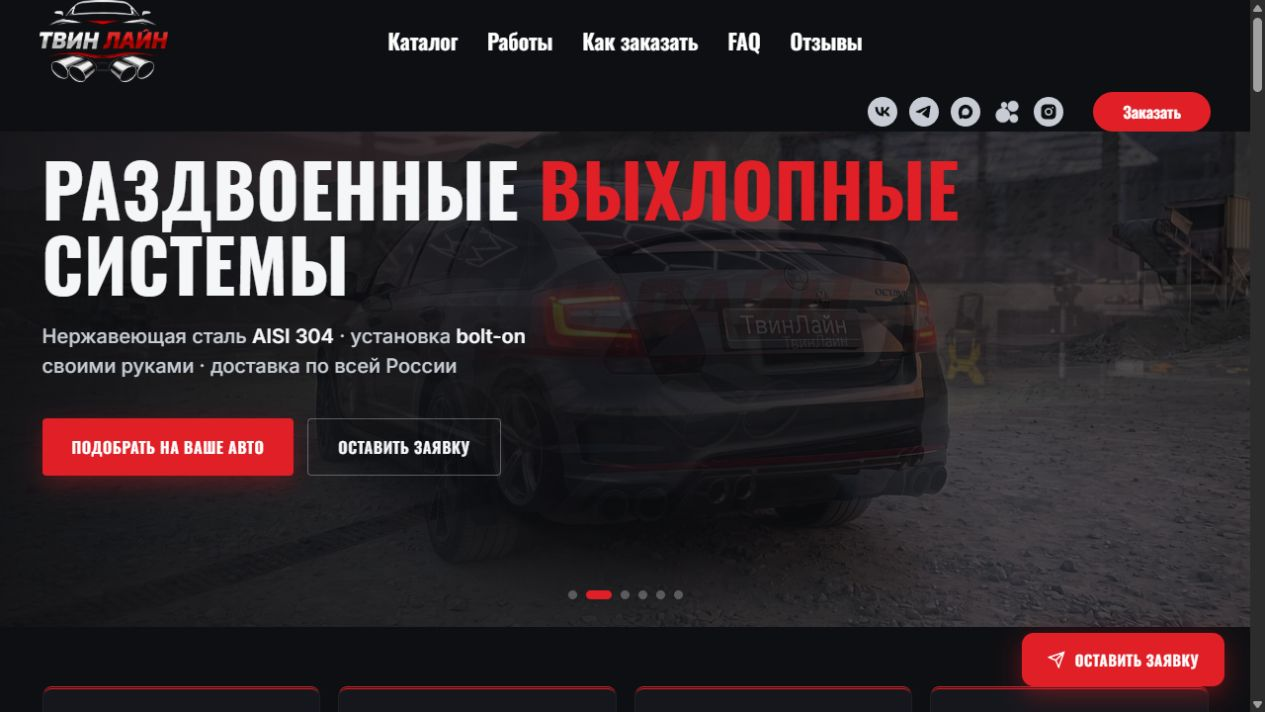
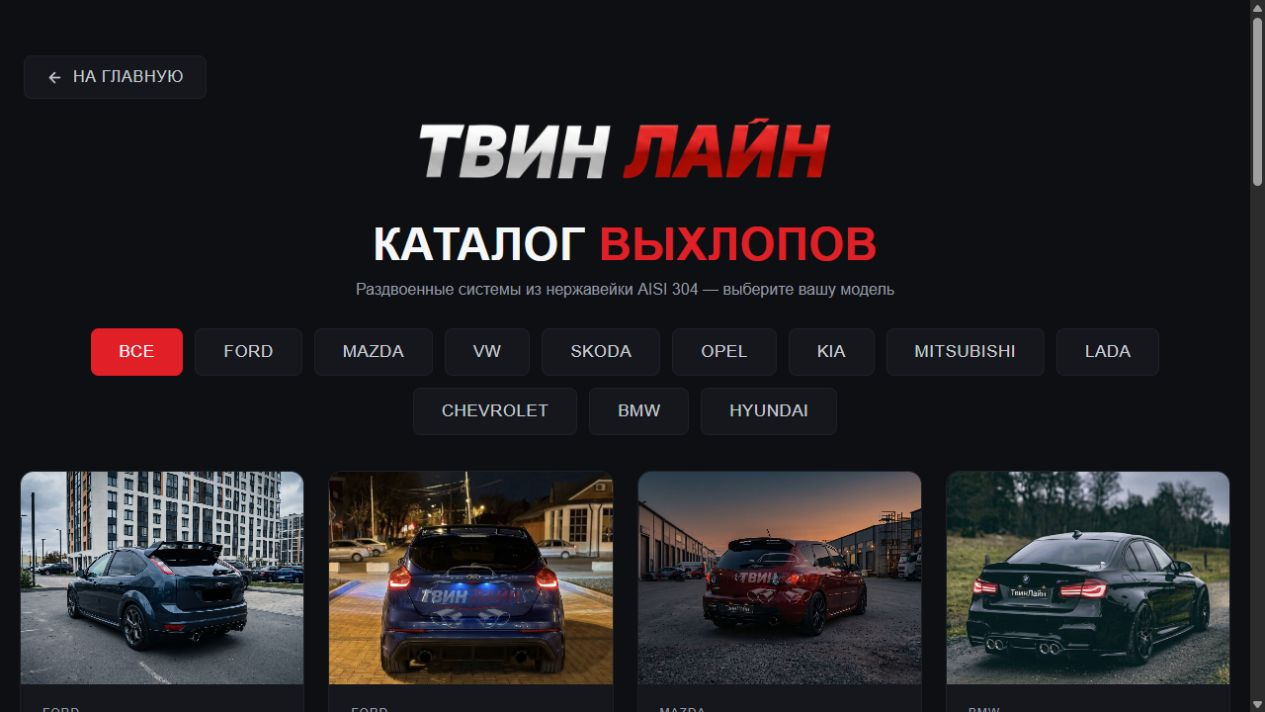
Animate signal portfolio and refresh Twin Line cover

diff --git a/src/App.jsx b/src/App.jsx
@@ -1,6 +1,6 @@
 'use client'
 
-import { useState } from 'react'
+import { useEffect, useState } from 'react'
 import { cases } from './data/cases.js'
 import { TELEGRAM_URL } from './config.js'
 
@@ -98,6 +98,28 @@ function CaseGallery({ item }) {
 }
 
 function App() {
+  useEffect(() => {
+    const reduceMotion = window.matchMedia('(prefers-reduced-motion: reduce)').matches
+    if (reduceMotion) return undefined
+
+    document.documentElement.classList.add('motion-ready')
+    const targets = document.querySelectorAll('[data-reveal]')
+    const observer = new IntersectionObserver((entries) => {
+      entries.forEach((entry) => {
+        if (entry.isIntersecting) {
+          entry.target.classList.add('is-visible')
+          observer.unobserve(entry.target)
+        }
+      })
+    }, { threshold: 0.14 })
+
+    targets.forEach((target) => observer.observe(target))
+    return () => {
+      observer.disconnect()
+      document.documentElement.classList.remove('motion-ready')
+    }
+  }, [])
+
   return (
     <div className="site-shell">
       <a className="skip-link" href="#main">К содержанию</a>
@@ -119,11 +141,11 @@ function App() {
       <main id="main">
         <section className="hero" id="top">
           <div className="hero-index" aria-hidden="true">01 / Портфолио · 2026</div>
-          <div className="hero-copy">
+          <div className="hero-copy" data-reveal>
             <p className="eyebrow"><i aria-hidden="true" />Ведущий маркетолог · сайты · запуск</p>
             <h1>Сайты, которые <em>работают.</em></h1>
           </div>
-          <div className="hero-aside">
+          <div className="hero-aside" data-reveal>
             <figure className="hero-portrait">
               <img src="/valeriy-parshin.jpg" alt="Валерий Паршин" />
               <figcaption>
@@ -134,21 +156,24 @@ function App() {
             <p>Я Валерий. Беру проект целиком: от понимания аудитории и оффера до сайта, аналитики и запуска.</p>
             <a className="text-link" href="#cases">Смотреть работы <ArrowIcon /></a>
           </div>
-          <div className="hero-signal" aria-label="6 лет в маркетинге">
+          <div className="hero-signal" aria-label="6 лет в маркетинге" data-reveal>
             <strong>6</strong>
             <span>лет<br />в маркетинге</span>
           </div>
-          <div className="hero-note">
+          <div className="hero-note" data-reveal>
             <span>От маркетинговой стратегии до запуска:</span>
             <strong>не просто экран, а сайт, встроенный в продажи.</strong>
           </div>
         </section>
 
         <div className="signal-strip" aria-hidden="true">
-          <span>Стратегия</span><i>✦</i><span>Оффер</span><i>✦</i><span>Сайт</span><i>✦</i><span>Запуск</span><i>✦</i><span>Заявки</span>
+          <div className="signal-track">
+            <span>Стратегия</span><i>✦</i><span>Оффер</span><i>✦</i><span>Сайт</span><i>✦</i><span>Запуск</span><i>✦</i><span>Заявки</span>
+            <span>Стратегия</span><i>✦</i><span>Оффер</span><i>✦</i><span>Сайт</span><i>✦</i><span>Запуск</span><i>✦</i><span>Заявки</span>
+          </div>
         </div>
 
-        <section className="positioning section" id="approach" aria-labelledby="approach-title">
+        <section className="positioning section" id="approach" aria-labelledby="approach-title" data-reveal>
           <div className="positioning-copy">
             <p className="eyebrow">Моя сильная сторона</p>
             <h2 id="approach-title">Смотрю на сайт как на часть маркетинга, а не как на отдельную картинку.</h2>
@@ -170,7 +195,7 @@ function App() {
           </dl>
         </section>
 
-        <section className="cases section" id="cases" aria-labelledby="cases-title">
+        <section className="cases section" id="cases" aria-labelledby="cases-title" data-reveal>
           <div className="section-heading">
             <p className="eyebrow">Выбранные работы</p>
             <h2 id="cases-title">Живые сайты, которые можно открыть</h2>
@@ -179,7 +204,7 @@ function App() {
 
           <div className="case-list">
             {cases.map((item) => (
-              <article className="case" key={item.id}>
+              <article className="case" key={item.id} data-reveal>
                 <CaseGallery item={item} />
                 <div className="case-copy">
                   <div className="case-meta">
@@ -209,7 +234,7 @@ function App() {
           </div>
         </section>
 
-        <section className="services section" id="services" aria-labelledby="services-title">
+        <section className="services section" id="services" aria-labelledby="services-title" data-reveal>
           <div className="section-heading compact">
             <p className="eyebrow">Чем могу помочь</p>
             <h2 id="services-title">Соединить маркетинг, сайт и запуск в одном проекте</h2>
@@ -225,7 +250,7 @@ function App() {
           </div>
         </section>
 
-        <section className="process section" id="process" aria-labelledby="process-title">
+        <section className="process section" id="process" aria-labelledby="process-title" data-reveal>
           <div className="section-heading compact">
             <p className="eyebrow">Как строится работа</p>
             <h2 id="process-title">Один человек, один контекст, четыре понятных этапа</h2>
@@ -240,7 +265,7 @@ function App() {
           </ol>
         </section>
 
-        <section className="contact section" id="contact" aria-labelledby="contact-title">
+        <section className="contact section" id="contact" aria-labelledby="contact-title" data-reveal>
           <p className="eyebrow">Есть задача?</p>
           <h2 id="contact-title">Покажите, что нужно сделать. Я предложу понятный следующий шаг.</h2>
           <p className="contact-copy">Можно прислать ссылку на текущий сайт, короткое ТЗ или просто описать задачу своими словами.</p>

diff --git a/src/styles.css b/src/styles.css
@@ -68,7 +68,8 @@ h1 em::after { position: absolute; z-index: -1; right: -0.06em; bottom: -0.09em;
 .hero-signal span { margin-top: 0.6rem; font: 600 0.52rem/1.25 var(--mono); letter-spacing: 0.08em; text-transform: uppercase; }
 .hero-note { display: grid; gap: 0.28rem; align-self: end; margin-top: 3rem; padding-top: 1rem; border-top: var(--line); font: 600 0.62rem/1.4 var(--mono); letter-spacing: 0.07em; text-transform: uppercase; }
 .hero-note span { color: var(--muted); }.hero-note strong { max-width: 42ch; }
-.signal-strip { display: flex; min-height: 54px; align-items: center; justify-content: center; gap: clamp(0.85rem, 2.3vw, 2rem); overflow: hidden; padding: 0.6rem 1.25rem; border-bottom: var(--line); color: var(--milk); background: var(--ink); white-space: nowrap; }
+.signal-strip { display: flex; min-height: 54px; align-items: center; overflow: hidden; border-bottom: var(--line); color: var(--milk); background: var(--ink); white-space: nowrap; }
+.signal-track { display: flex; width: max-content; align-items: center; gap: clamp(0.85rem, 2.3vw, 2rem); padding-right: clamp(0.85rem, 2.3vw, 2rem); animation: signal-marquee 24s linear infinite; }
 .signal-strip span { font: 600 clamp(0.65rem, 1.3vw, 0.84rem)/1 var(--mono); letter-spacing: 0.1em; text-transform: uppercase; }.signal-strip i { color: var(--acid); font-style: normal; }
 
 .section { padding: 5.3rem 1.25rem; }
@@ -92,6 +93,19 @@ h1 em::after { position: absolute; z-index: -1; right: -0.06em; bottom: -0.09em;
 .footer { display: flex; justify-content: space-between; gap: 1rem; padding: 1.35rem 1.25rem; color: var(--milk); background: var(--ink); font: 600 0.59rem/1.35 var(--mono); letter-spacing: 0.08em; text-transform: uppercase; }.footer a { color: var(--acid); }
 a:focus-visible, .is-disabled:focus-visible, .gallery-arrow:focus-visible, .gallery-thumb:focus-visible { outline: 3px solid var(--cobalt); outline-offset: 4px; }
 
+.motion-ready [data-reveal] { opacity: 0; transform: translateY(34px); transition: opacity 700ms cubic-bezier(.16, 1, .3, 1), transform 800ms cubic-bezier(.16, 1, .3, 1); }
+.motion-ready [data-reveal].is-visible { opacity: 1; transform: translateY(0); }
+.motion-ready .hero-copy { transition-delay: 80ms; }.motion-ready .hero-aside { transition-delay: 240ms; }.motion-ready .hero-note { transition-delay: 380ms; }
+.motion-ready .hero-signal { transform: rotate(10deg) translateY(28px) scale(.82); transition-delay: 170ms; }.motion-ready .hero-signal.is-visible { transform: rotate(10deg) translateY(0) scale(1); }
+.motion-ready .hero::before { animation: blue-drift 10s ease-in-out infinite; }.motion-ready .hero-signal.is-visible { animation: signal-float 4s ease-in-out 900ms infinite; }.motion-ready .hero-portrait img { animation: portrait-pop 900ms cubic-bezier(.16, 1, .3, 1) 360ms both; }
+.motion-ready .case[data-reveal] { transition-delay: 80ms; }.motion-ready .case:nth-child(2n)[data-reveal] { transition-delay: 150ms; }
+.browser:hover { transform: perspective(1000px) translate(-5px, -5px) rotate(-0.5deg); }.case:nth-child(even) .browser:hover { transform: perspective(1000px) translate(-5px, -5px) rotate(0.5deg); }
+
+@keyframes signal-marquee { to { transform: translateX(-50%); } }
+@keyframes blue-drift { 0%, 100% { transform: translate3d(0, 0, 0) scale(1); } 50% { transform: translate3d(-2.5%, 2%, 0) scale(1.045); } }
+@keyframes signal-float { 0%, 100% { transform: rotate(10deg) translateY(0) scale(1); } 50% { transform: rotate(5deg) translateY(-10px) scale(1.03); } }
+@keyframes portrait-pop { from { transform: rotate(-5deg) scale(.75); opacity: 0; } to { transform: rotate(0) scale(1); opacity: 1; } }
+
 @media (min-width: 720px) {
   .header, .hero, .section, .footer { padding-right: 3rem; padding-left: 3rem; }
   .nav { display: flex; gap: 1.35rem; align-items: center; margin-left: auto; color: var(--muted); font: 600 0.65rem/1 var(--mono); letter-spacing: 0.03em; }.nav a { position: relative; }.nav a::after { position: absolute; right: 0; bottom: -0.42rem; left: 0; height: 2px; background: var(--coral); transform: scaleX(0); transform-origin: right; content: ''; transition: transform 180ms ease; }.nav a:hover { color: var(--ink); }.nav a:hover::after { transform: scaleX(1); transform-origin: left; }
@@ -107,4 +121,4 @@ a:focus-visible, .is-disabled:focus-visible, .gallery-arrow:focus-visible, .gall
   .header, .hero, .section, .footer { padding-right: clamp(4rem, 7vw, 8rem); padding-left: clamp(4rem, 7vw, 8rem); }.header { min-height: 84px; }.hero { min-height: calc(100vh - 84px); padding-top: 2.2rem; padding-bottom: 2rem; }.hero-copy { margin: 2.5rem 0; }.hero-signal { right: 7%; width: 9.7rem; }.hero-signal strong { font-size: 4.5rem; }.section { padding-top: 8rem; padding-bottom: 8rem; }.positioning { padding-top: 7rem; padding-bottom: 5rem; }.case-list { gap: 9rem; }.process { display: grid; grid-template-columns: minmax(0, 0.75fr) minmax(28rem, 1fr); gap: 6rem; }.process .section-heading { display: block; align-self: start; position: sticky; top: 7rem; }
 }
 @media (max-width: 420px) { .hero-signal { top: 7rem; width: 6.5rem; }.hero-signal strong { font-size: 3rem; }.hero-copy { margin-top: 4.5rem; }.header-contact { font-size: 0; gap: 0; }.header-contact svg { width: 18px; }.hero-portrait { grid-template-columns: 7.5rem 1fr; }.hero-portrait img { width: 7.5rem; } }
-@media (prefers-reduced-motion: reduce) { html { scroll-behavior: auto; } *, *::before, *::after { scroll-behavior: auto !important; transition-duration: 0.01ms !important; } }
+@media (prefers-reduced-motion: reduce) { html { scroll-behavior: auto; } *, *::before, *::after { scroll-behavior: auto !important; transition-duration: 0.01ms !important; animation-duration: 0.01ms !important; animation-iteration-count: 1 !important; } }
